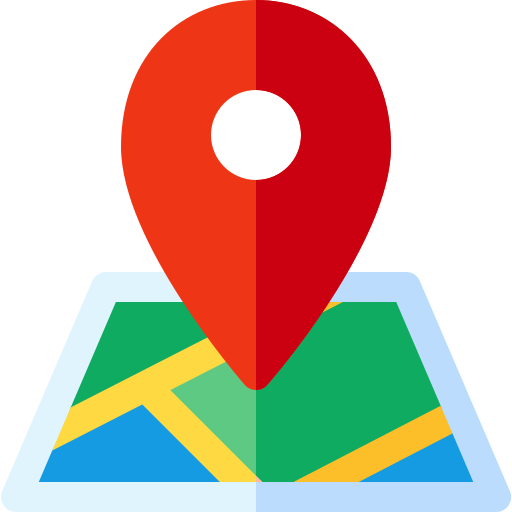
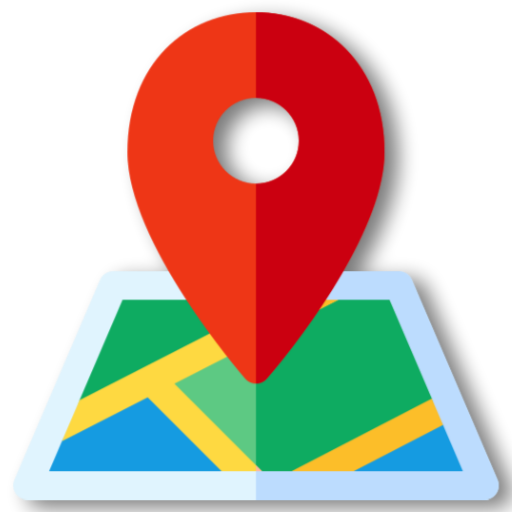
메인 배너 디자인 수정

diff --git a/foodexplore/src/main/resources/static/css/main.css b/foodexplore/src/main/resources/static/css/main.css
@@ -27,7 +27,7 @@
 		justify-content: center;
 		align-items: center;
 		text-align: center;
-		padding: 70px;
+		/* padding: 70px; */
 
 	}
 
@@ -41,6 +41,7 @@
 		font-weight: 550;
 		padding: 14px 29px;
 		text-decoration: none;
+		box-shadow: 0 0 10px #080606;
 	}
 
 	.search {
@@ -48,6 +49,9 @@
 		color: #000;
 		cursor: pointer;
 		font-size: 20px;
+	}
+	.button-container a:hover{
+		color: white !important;
 	}
 
 	.image-container {
@@ -64,8 +68,8 @@
 	}
 
 	.icon {
-		width: 100px;
-		height: 100px;
+		width: 110px;
+		height: 110px;
 		margin-top: 40px;
 		margin-bottom: 30px;
 	}
@@ -219,7 +223,7 @@
     display: flex;
     flex-wrap: wrap;
     align-items: center;
-    margin-top: 50px;
+    /* margin-top: 50px; */
     margin-bottom: 10px;
     float: left;
     background-color: #EFEEEC;
@@ -234,7 +238,7 @@
     align-items: center;
     text-align: center;
     margin: 5px;
-    margin-top: 50px;
+    /* margin-top: 50px; */
 }
 
 .set {
@@ -272,11 +276,11 @@
     background-color: #fff;
     box-sizing: border-box;
     width: 500px;
-    height: 600px;
+    /* height: 600px; */
     display: flex;
     flex-direction: column;
     justify-content: flex-start;
-    position: relative;
+    /* position: relative; */
 }
 
 /* 음식 사진 추가 */
@@ -288,14 +292,14 @@
     margin-bottom: 10px;
     align-self: center;
     align-items: center;
-    position: absolute;
+    /* position: absolute; */
     top: 0;
 }
 
 .info {
 	flex: 1;
     text-align: left !important;
-    position: absolute;
+    /* position: absolute; */
     bottom: 0;
     width: 100%;
     height: 40%;
@@ -331,4 +335,42 @@
 .rst-addr1, .average {
 	font-family: 'ONE-Mobile-Regular';
 	font-size: 15px;
+}
+
+#slider{
+	overflow: hidden;
+	position: relative;
+	width: 100%;
+	height: 450px;
+	box-sizing: border-box;
+}
+.image-box{
+	width: 200%;
+	height: 100%;
+	display: flex;
+	flex-wrap: nowrap;
+	animation: bannermove 80s linear infinite;
+	background-color: black;
+}
+.image-box > div{
+	background-color: black;
+	opacity: 0.5;
+}
+.image-box > div > img{
+	height: 450px;
+}
+@keyframes bannermove {
+	0%{
+		transform: translate(0,0);
+	}
+	100%{
+		transform: translate(-50%,0);
+	}
+}
+.buttonbox {
+    position: absolute; /* 절대 위치 설정 */
+    top: 69px; /* slider div의 상단에 배치 */
+    left: 0; /* slider div의 왼쪽에 배치 (기본 값) */
+    width: 100%; /* slider div와 동일한 너비 */
+    z-index: 1; /* 다른 요소 위에 표시되도록 설정 */
 }

diff --git a/foodexplore/src/main/resources/templates/main.html b/foodexplore/src/main/resources/templates/main.html
@@ -38,6 +38,37 @@
 	<!-- 주황 부분 -->
 	<div class="background">
 		<div class="background-inner-banner">
+			<div id="slider">
+				<div class="image-box">
+					<div><img th:src="@{/images/chicken.jpg}" alt=""></div>
+
+					<div><img th:src="@{/images/sushi.jpg}" alt=""></div>
+					<div><img th:src="@{/images/bibimbap.jpg}" alt=""></div>
+					<div><img th:src="@{/images/pastawhite.jpg}" alt=""></div>
+					<div><img th:src="@{/images/중식.jpg}" alt=""></div>
+					<div><img th:src="@{/images/분식.jpg}" alt=""></div>
+					<div><img th:src="@{/images/쌀국수.jpg}" alt=""></div>
+					<div><img th:src="@{/images/cafe.jpg}" alt=""></div>
+					<div><img th:src="@{/images/chicken.jpg}" alt=""></div>
+
+					<div><img th:src="@{/images/sushi.jpg}" alt=""></div>
+					<div><img th:src="@{/images/bibimbap.jpg}" alt=""></div>
+					<div><img th:src="@{/images/pastawhite.jpg}" alt=""></div>
+					<div><img th:src="@{/images/중식.jpg}" alt=""></div>
+					<div><img th:src="@{/images/분식.jpg}" alt=""></div>
+					<div><img th:src="@{/images/쌀국수.jpg}" alt=""></div>
+					<div><img th:src="@{/images/cafe.jpg}" alt=""></div>
+					<div><img th:src="@{/images/chicken.jpg}" alt=""></div>
+
+					<div><img th:src="@{/images/sushi.jpg}" alt=""></div>
+					<div><img th:src="@{/images/bibimbap.jpg}" alt=""></div>
+					<div><img th:src="@{/images/pastawhite.jpg}" alt=""></div>
+					
+				</div>
+
+			</div>
+
+			<div class="buttonbox">
 			<div class="location button">위치에 따른 식당 검색</div>
 			<div class="image-container">
 				<div class="button-container">
@@ -69,6 +100,8 @@
 					</div> <!-- end different -->
 				</div> <!-- end button-container -->
 			</div> <!-- end image-container  -->
+		</div>
+
 		</div> <!-- end background-inner-banner -->
 	</div> <!-- end background -->
     
@@ -91,7 +124,10 @@
 	        </div> end rst-box
 	    </div> end best <br>
 	</div> end top-container -->
-	
+	<div style="margin-top: 10px; margin-bottom: 10px; text-align: center;">
+		※먹스플로어의 TOP10은 리뷰 개수와 별점을 고려하여 산정했습니다.
+	</div>
+
 	<div class="top-container">
 	    <div th:each="restaurant, iterStatus : ${top10Rst}" class="best">
 	        <div class="set">
